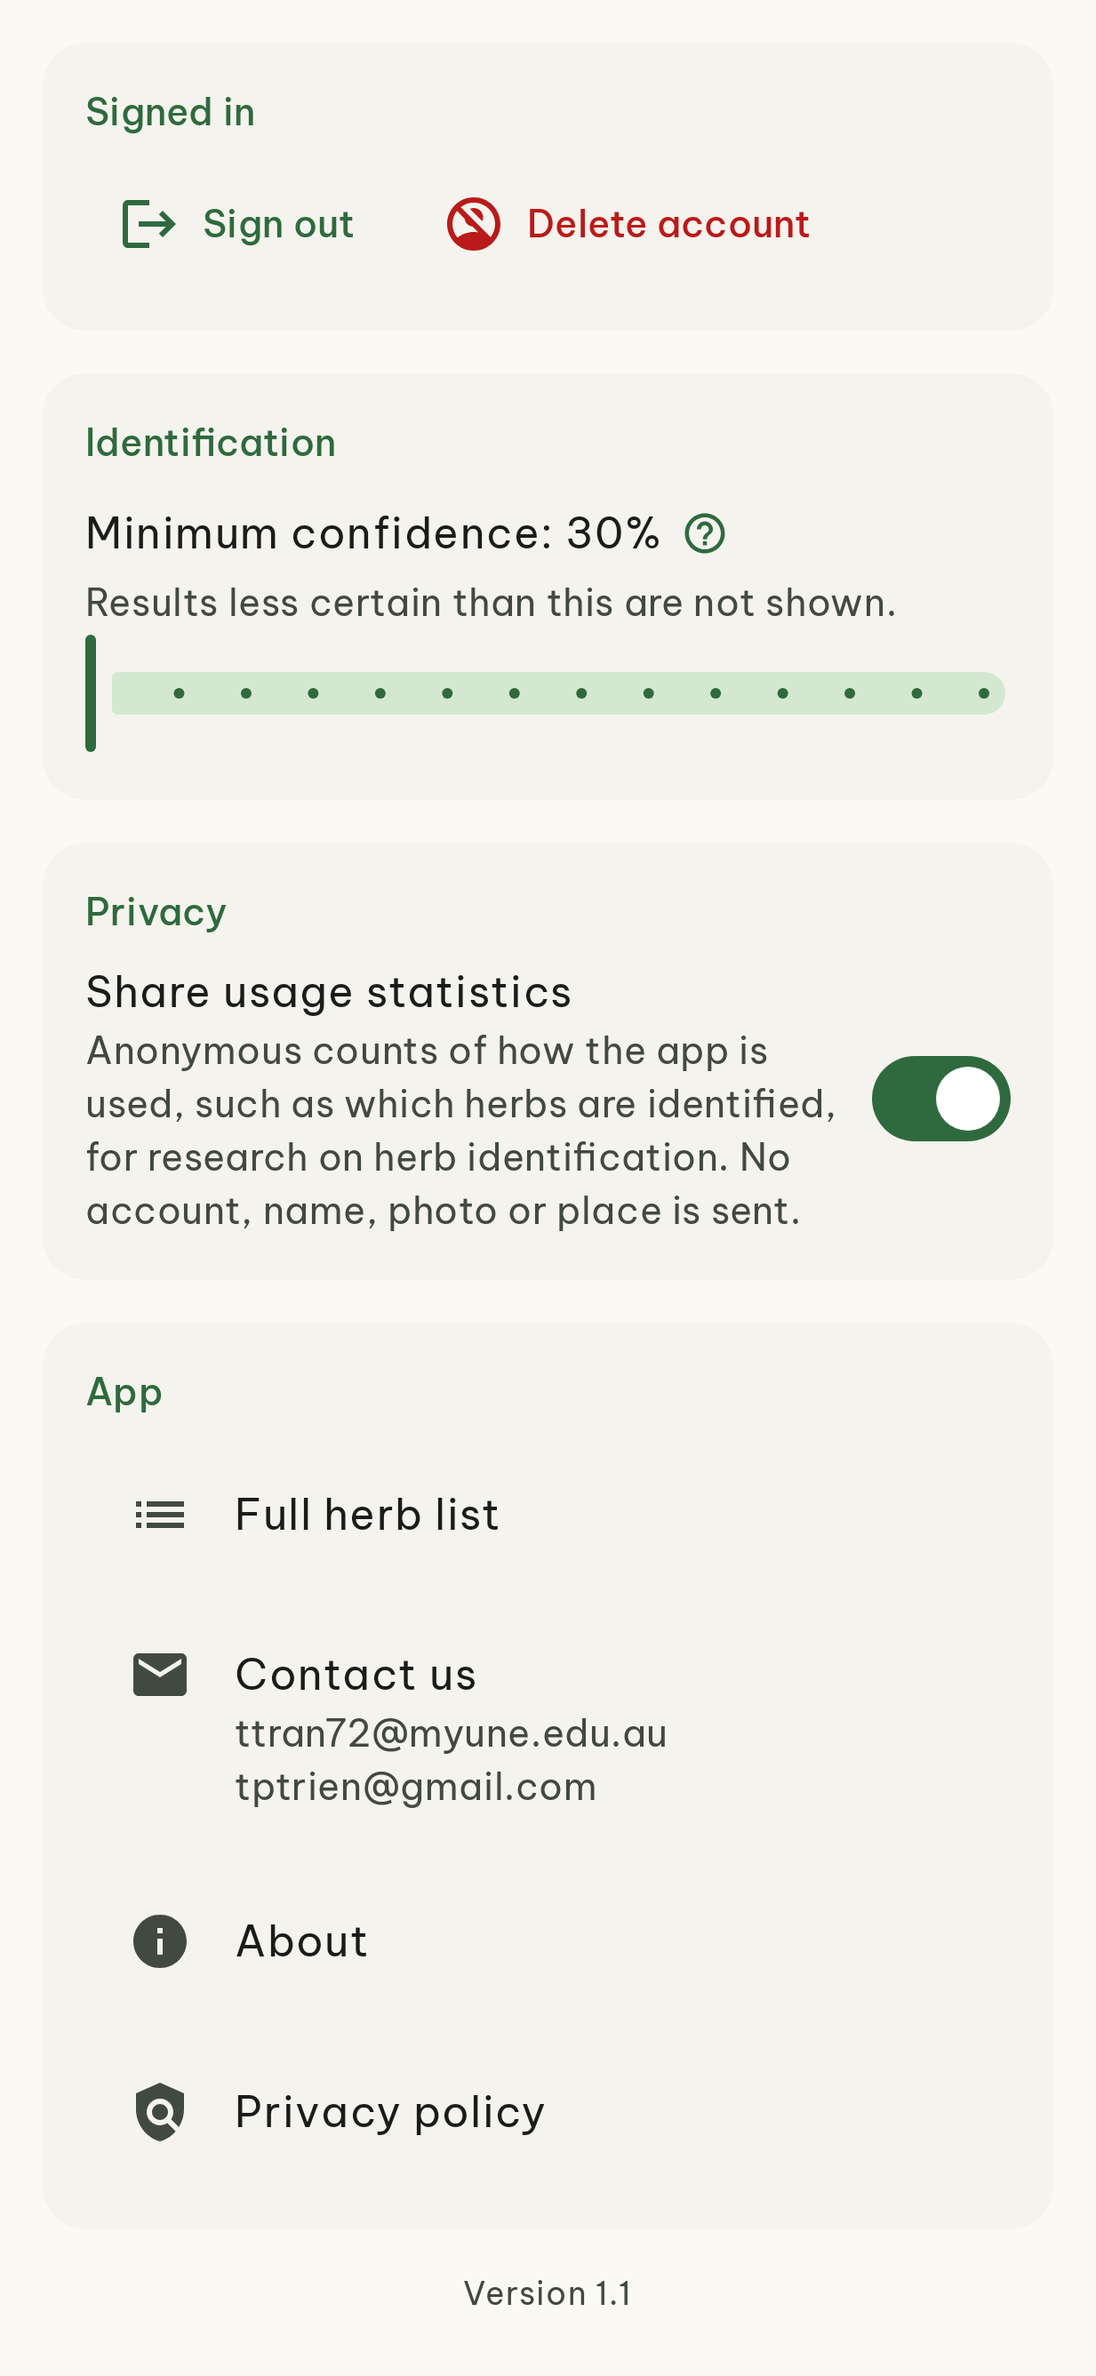
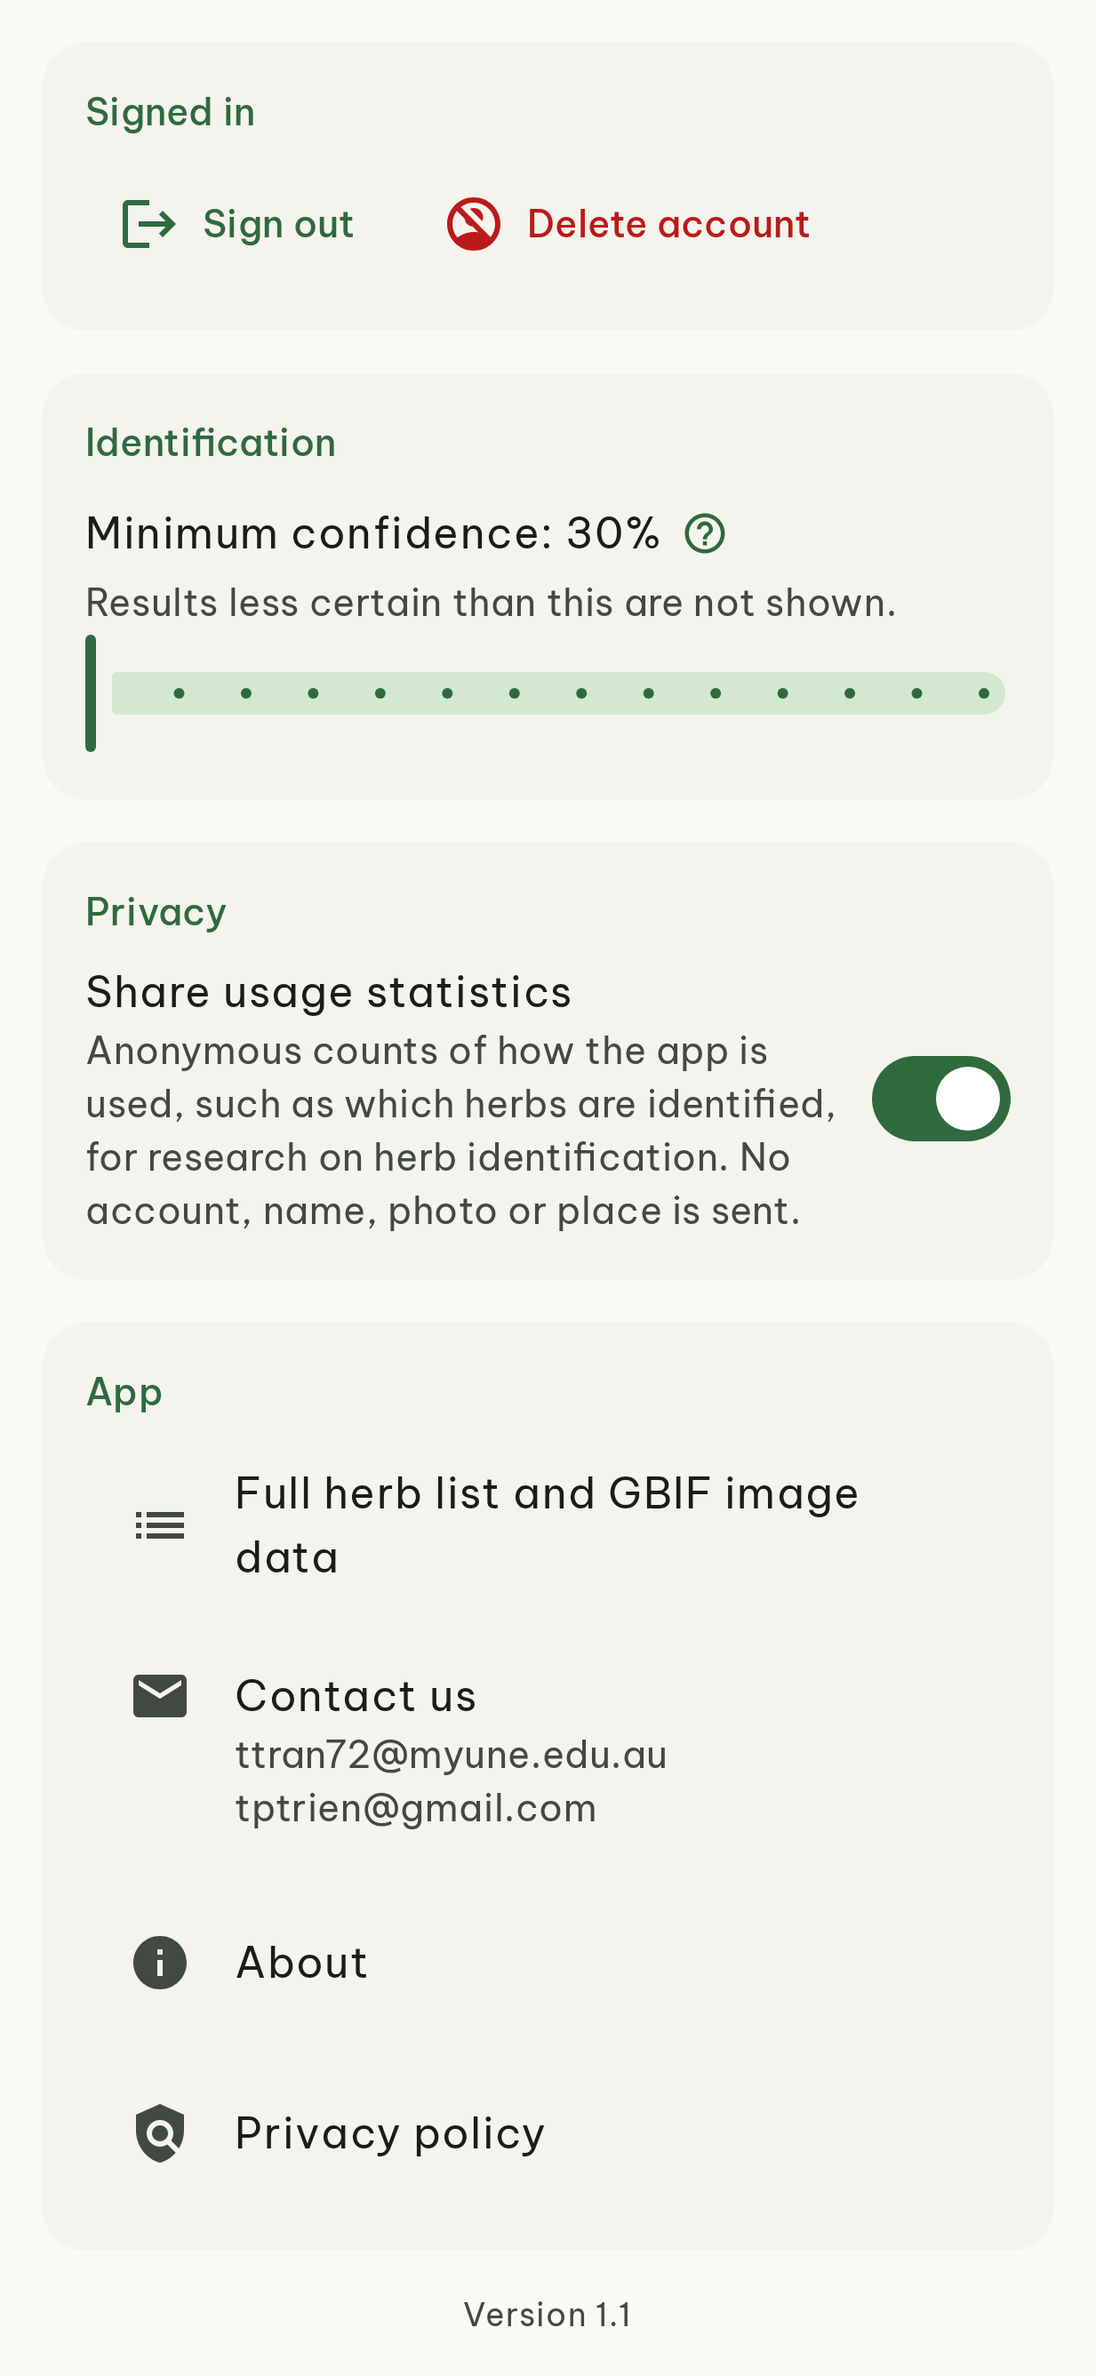
Profile: contact emails and the dataset link come from Remote Config (contact_emails, dataset_url), with the current values built in; the herb list link now opens the Kaggle dataset, labelled "Full herb list and GBIF image data", and opening it is counted (open_dataset)

diff --git a/feature/profile/src/commonMain/kotlin/com/uri/lee/dl/feature/profile/ProfileViewModel.kt b/feature/profile/src/commonMain/kotlin/com/uri/lee/dl/feature/profile/ProfileViewModel.kt
@@ -7,8 +7,10 @@ import com.uri.lee.dl.core.ui.MviViewModel
 import com.uri.lee.dl.domain.analytics.Analytics
 import com.uri.lee.dl.domain.analytics.AnalyticsEvent
 import com.uri.lee.dl.domain.analytics.NoAnalytics
+import com.uri.lee.dl.domain.model.AppLinks
 import com.uri.lee.dl.domain.model.Citation
 import com.uri.lee.dl.domain.model.ScanSettings
+import com.uri.lee.dl.domain.repository.AppLinksRepository
 import com.uri.lee.dl.domain.repository.AuthRepository
 import com.uri.lee.dl.domain.repository.CitationRepository
 import com.uri.lee.dl.domain.repository.SettingsRepository
@@ -24,6 +26,9 @@ sealed interface ProfileAction {
 
     /** The user copied the citation at [index] in How to cite (for usage statistics). */
     data class CitationCopied(val index: Int) : ProfileAction
+
+    /** The user opened the dataset link (for usage statistics). */
+    data object DatasetOpened : ProfileAction
 }
 
 data class ProfileState(
@@ -34,6 +39,8 @@ data class ProfileState(
     val usageStatistics: Boolean = true,
     /** Works to cite the app by; the section is hidden while empty. */
     val citations: List<Citation> = emptyList(),
+    /** The built-in links until the published ones arrive. */
+    val links: AppLinks = AppLinks(),
 )
 
 /** Account and settings. */
@@ -41,6 +48,7 @@ class ProfileViewModel(
     private val auth: AuthRepository,
     private val settings: SettingsRepository,
     private val citations: CitationRepository,
+    private val links: AppLinksRepository,
     app: AppInfo,
     private val analytics: Analytics = NoAnalytics,
 ) : MviViewModel<ProfileState, ProfileAction>(ProfileState(versionName = app.versionName)) {
@@ -59,6 +67,16 @@ class ProfileViewModel(
                 log.w(e) { "Citations unavailable" }
             }
         }
+        viewModelScope.launch {
+            try {
+                val published = links.links()
+                setState { copy(links = published) }
+            } catch (e: CancellationException) {
+                throw e
+            } catch (e: Exception) {
+                log.w(e) { "Links unavailable; keeping the built-in ones" }
+            }
+        }
     }
 
     override fun onAction(action: ProfileAction) {
@@ -69,6 +87,7 @@ class ProfileViewModel(
             is ProfileAction.CitationCopied -> currentState.citations.getOrNull(action.index)?.let {
                 analytics.log(AnalyticsEvent.CitationCopied(action.index + 1, it.url))
             }
+            ProfileAction.DatasetOpened -> analytics.log(AnalyticsEvent.DatasetOpened)
         }
     }
 

diff --git a/core/data/src/commonMain/kotlin/com/uri/lee/dl/data/firebase/RemoteConfigAppLinksRepository.kt b/core/data/src/commonMain/kotlin/com/uri/lee/dl/data/firebase/RemoteConfigAppLinksRepository.kt
@@ -1,0 +1,46 @@
+package com.uri.lee.dl.data.firebase
+
+import co.touchlab.kermit.Logger
+import com.uri.lee.dl.core.firebase.RemoteConfigClient
+import com.uri.lee.dl.domain.model.AppLinks
+import com.uri.lee.dl.domain.repository.AppLinksRepository
+import kotlinx.coroutines.CancellationException
+
+/**
+ * The Remote Config keys `contact_emails` (addresses separated by commas, the first one first in the email)
+ * and `dataset_url` (a web link). Unset, or not valid, means the built-in [AppLinks] value.
+ */
+internal class RemoteConfigAppLinksRepository(private val remoteConfig: RemoteConfigClient) : AppLinksRepository {
+
+    override suspend fun links(): AppLinks {
+        try {
+            remoteConfig.fetchAndActivate()
+        } catch (e: CancellationException) {
+            throw e
+        } catch (e: Exception) {
+            log.w(e) { "Remote Config fetch failed; using cached values" }
+        }
+        return parse(remoteConfig.string(CONTACT_EMAILS), remoteConfig.string(DATASET_URL))
+    }
+
+    companion object {
+        const val CONTACT_EMAILS = "contact_emails"
+        const val DATASET_URL = "dataset_url"
+        private val log = Logger.withTag("AppLinks")
+        private val email = Regex("[^\\s@,;]+@[^\\s@,;]+\\.[^\\s@,;]+")
+
+        fun parse(contactEmails: String, datasetUrl: String): AppLinks {
+            val emails = contactEmails.split(',').map { it.trim() }.filter { it.isNotEmpty() }
+            // All or nothing: one bad address would make the mail app reject the rest
+            val validEmails = emails.takeIf { it.isNotEmpty() && it.all(email::matches) }
+            if (emails.isNotEmpty() && validEmails == null) log.w { "$CONTACT_EMAILS has an address that isn't valid: $contactEmails" }
+            // Only web links: the app opens it as it is
+            val url = datasetUrl.trim().takeIf { it.startsWith("https://") || it.startsWith("http://") }
+            if (datasetUrl.isNotBlank() && url == null) log.w { "$DATASET_URL is not a web link: $datasetUrl" }
+            return AppLinks(
+                contactEmails = validEmails ?: AppLinks.DEFAULT_CONTACT_EMAILS,
+                datasetUrl = url ?: AppLinks.DEFAULT_DATASET_URL,
+            )
+        }
+    }
+}

diff --git a/feature/profile/src/commonMain/kotlin/com/uri/lee/dl/feature/profile/ProfileScreen.kt b/feature/profile/src/commonMain/kotlin/com/uri/lee/dl/feature/profile/ProfileScreen.kt
@@ -131,12 +131,15 @@ fun ProfileScreen(state: ProfileState, onAction: (ProfileAction) -> Unit, action
 
             SectionCard(stringResource(Res.string.profile_app)) {
                 actions.onOpenLanguageSettings?.let { LinkRow(Icons.Filled.Language, stringResource(Res.string.profile_language), onClick = it) }
-                LinkRow(Icons.AutoMirrored.Filled.List, stringResource(Res.string.profile_full_list)) { uriHandler.openUri(HERB_LIST_URL) }
+                LinkRow(Icons.AutoMirrored.Filled.List, stringResource(Res.string.profile_full_list)) {
+                    onAction(ProfileAction.DatasetOpened)
+                    uriHandler.openUri(state.links.datasetUrl)
+                }
                 actions.onShareApp?.let { LinkRow(Icons.Filled.Share, stringResource(Res.string.profile_share), onClick = it) }
-                // The addresses too: without a mail app set up, a mailto link does nothing. One email to both,
-                // the university's first
-                LinkRow(Icons.Filled.Email, stringResource(Res.string.profile_contact), supporting = CONTACT_EMAILS.joinToString("\n")) {
-                    uriHandler.openUri("mailto:" + CONTACT_EMAILS.joinToString(","))
+                // The addresses too: without a mail app set up, a mailto link does nothing. One email to all of them
+                val emails = state.links.contactEmails
+                LinkRow(Icons.Filled.Email, stringResource(Res.string.profile_contact), supporting = emails.joinToString("\n")) {
+                    uriHandler.openUri("mailto:" + emails.joinToString(","))
                 }
                 // In Vietnamese for an app shown in Vietnamese; the legal pages stay English only
                 val about = if (Locale.current.language == "vi") LegalLinks.ABOUT_VI else LegalLinks.ABOUT
@@ -274,6 +277,3 @@ private fun LinkRow(icon: ImageVector, label: String, supporting: String? = null
         modifier = Modifier.clickable(onClick = onClick).semantics { role = Role.Button },
     )
 }
-
-private const val HERB_LIST_URL = "https://docs.google.com/spreadsheets/d/16IpEYlpkd7NW3XHXUvhdhJf8LySuhVRLooA7c1SAzOs/edit?usp=sharing"
-private val CONTACT_EMAILS = listOf("ttran72@myune.edu.au", "tptrien@gmail.com")

diff --git a/feature/profile/src/commonTest/kotlin/com/uri/lee/dl/feature/profile/ProfileViewModelTest.kt b/feature/profile/src/commonTest/kotlin/com/uri/lee/dl/feature/profile/ProfileViewModelTest.kt
@@ -2,8 +2,10 @@ package com.uri.lee.dl.feature.profile
 
 import com.uri.lee.dl.domain.analytics.Analytics
 import com.uri.lee.dl.domain.analytics.AnalyticsEvent
+import com.uri.lee.dl.domain.model.AppLinks
 import com.uri.lee.dl.domain.model.Citation
 import com.uri.lee.dl.testing.MainDispatcherTest
+import com.uri.lee.dl.testing.fakes.FakeAppLinksRepository
 import com.uri.lee.dl.testing.fakes.FakeAuthRepository
 import com.uri.lee.dl.testing.fakes.FakeCitationRepository
 import com.uri.lee.dl.testing.fakes.FakeSettingsRepository
@@ -16,12 +18,13 @@ class ProfileViewModelTest : MainDispatcherTest() {
     private val auth = FakeAuthRepository()
     private val settings = FakeSettingsRepository()
     private val citations = FakeCitationRepository()
+    private val links = FakeAppLinksRepository()
     private val events = mutableListOf<AnalyticsEvent>()
     private val analytics = object : Analytics {
         override fun log(event: AnalyticsEvent) { events += event }
         override fun screen(name: String) = Unit
     }
-    private fun viewModel() = ProfileViewModel(auth, settings, citations, testAppInfo, analytics)
+    private fun viewModel() = ProfileViewModel(auth, settings, citations, links, testAppInfo, analytics)
 
     @Test
     fun `copying a citation is counted with its link`() {
@@ -64,5 +67,26 @@ class ProfileViewModelTest : MainDispatcherTest() {
         citations.fail = true
 
         assertEquals(emptyList(), viewModel().state.value.citations)
+    }
+
+    @Test
+    fun `published links replace the built-in ones`() {
+        links.published = AppLinks(listOf("new@example.org"), "https://example.org/data")
+
+        assertEquals(links.published, viewModel().state.value.links)
+    }
+
+    @Test
+    fun `built-in links when they can't be fetched`() {
+        links.fail = true
+
+        assertEquals(AppLinks(), viewModel().state.value.links)
+    }
+
+    @Test
+    fun `opening the dataset is counted`() {
+        viewModel().onAction(ProfileAction.DatasetOpened)
+
+        assertEquals("open_dataset", events.single().name)
     }
 }

diff --git a/core/data/src/commonMain/kotlin/com/uri/lee/dl/data/DataModule.kt b/core/data/src/commonMain/kotlin/com/uri/lee/dl/data/DataModule.kt
@@ -6,6 +6,7 @@ import com.uri.lee.dl.data.catalog.SpeciesCsvReader
 import com.uri.lee.dl.data.content.ReleaseSource
 import com.uri.lee.dl.data.content.RemoteConfigReleaseSource
 import com.uri.lee.dl.data.firebase.DefaultAppStatusRepository
+import com.uri.lee.dl.data.firebase.RemoteConfigAppLinksRepository
 import com.uri.lee.dl.data.firebase.RemoteConfigCitationRepository
 import com.uri.lee.dl.data.sharing.DefaultCommunityModelRepository
 import com.uri.lee.dl.domain.sharing.CommunityModelRepository
@@ -24,6 +25,7 @@ import com.uri.lee.dl.data.upload.R2PhotoHost
 import com.uri.lee.dl.domain.media.ImageHost
 import com.uri.lee.dl.domain.repository.AppStatusRepository
 import com.uri.lee.dl.domain.repository.AuthRepository
+import com.uri.lee.dl.domain.repository.AppLinksRepository
 import com.uri.lee.dl.domain.repository.CitationRepository
 import com.uri.lee.dl.domain.repository.ContributionRepository
 import com.uri.lee.dl.domain.repository.PhotoRepository
@@ -61,6 +63,7 @@ val dataModule: Module = module {
         DefaultAppStatusRepository(get(), versionCode = app.versionCode, platform = app.platform)
     }
     single<CitationRepository> { RemoteConfigCitationRepository(get()) }
+    single<AppLinksRepository> { RemoteConfigAppLinksRepository(get()) }
     single<CommunityModelRepository> {
         DefaultCommunityModelRepository(get(), get(), get(), get(named(PreferenceStore.SETTINGS)), workerUrl = get<AppInfo>().photoUploadUrl)
     }

diff --git a/core/testing/src/commonMain/kotlin/com/uri/lee/dl/testing/fakes/FakeRepositories.kt b/core/testing/src/commonMain/kotlin/com/uri/lee/dl/testing/fakes/FakeRepositories.kt
@@ -1,11 +1,13 @@
 package com.uri.lee.dl.testing.fakes
 
+import com.uri.lee.dl.domain.model.AppLinks
 import com.uri.lee.dl.domain.model.Citation
 import com.uri.lee.dl.domain.model.SpeciesPhoto
 import com.uri.lee.dl.domain.moderation.HiddenContent
 import com.uri.lee.dl.domain.moderation.ModerationRepository
 import com.uri.lee.dl.domain.moderation.ReportReason
 import com.uri.lee.dl.domain.repository.AuthRepository
+import com.uri.lee.dl.domain.repository.AppLinksRepository
 import com.uri.lee.dl.domain.repository.CitationRepository
 import com.uri.lee.dl.domain.repository.ContributionRepository
 import com.uri.lee.dl.domain.repository.PhotoRepository
@@ -120,4 +122,9 @@ class FakeModerationRepository : ModerationRepository {
 class FakeCitationRepository(var published: List<Citation> = emptyList()) : CitationRepository {
     var fail = false
     override suspend fun citations(): List<Citation> = if (fail) error("fetch failed") else published
+}
+
+class FakeAppLinksRepository(var published: AppLinks = AppLinks()) : AppLinksRepository {
+    var fail = false
+    override suspend fun links(): AppLinks = if (fail) error("fetch failed") else published
 }

diff --git a/core/data/src/androidHostTest/kotlin/com/uri/lee/dl/data/firebase/AppLinksParsingTest.kt b/core/data/src/androidHostTest/kotlin/com/uri/lee/dl/data/firebase/AppLinksParsingTest.kt
@@ -1,0 +1,32 @@
+package com.uri.lee.dl.data.firebase
+
+import com.uri.lee.dl.data.firebase.RemoteConfigAppLinksRepository.Companion.parse
+import com.uri.lee.dl.domain.model.AppLinks
+import org.junit.Assert.assertEquals
+import org.junit.Test
+
+class AppLinksParsingTest {
+
+    @Test
+    fun `unset means the built-in links`() {
+        assertEquals(AppLinks(), parse("", ""))
+    }
+
+    @Test
+    fun `published links are read in order`() {
+        assertEquals(
+            AppLinks(listOf("a@uni.edu.au", "b@example.com"), "https://www.kaggle.com/datasets/x/y"),
+            parse(" a@uni.edu.au, b@example.com ,", " https://www.kaggle.com/datasets/x/y "),
+        )
+    }
+
+    @Test
+    fun `an address that isn't valid keeps the built-in ones`() {
+        assertEquals(AppLinks.DEFAULT_CONTACT_EMAILS, parse("a@uni.edu.au, not an email", "").contactEmails)
+    }
+
+    @Test
+    fun `a dataset link that isn't a web link keeps the built-in one`() {
+        assertEquals(AppLinks.DEFAULT_DATASET_URL, parse("", "javascript:alert(1)").datasetUrl)
+    }
+}

diff --git a/core/domain/src/commonMain/kotlin/com/uri/lee/dl/domain/model/AppLinks.kt b/core/domain/src/commonMain/kotlin/com/uri/lee/dl/domain/model/AppLinks.kt
@@ -1,0 +1,14 @@
+package com.uri.lee.dl.domain.model
+
+/** Where Profile sends people: the contact addresses and the dataset. Published remotely, so they change without a release. */
+data class AppLinks(
+    /** One email goes to all of them; the university's first. */
+    val contactEmails: List<String> = DEFAULT_CONTACT_EMAILS,
+    /** The species list with the image data, on Kaggle (which counts the downloads). */
+    val datasetUrl: String = DEFAULT_DATASET_URL,
+) {
+    companion object {
+        val DEFAULT_CONTACT_EMAILS = listOf("ttran72@myune.edu.au", "tptrien@gmail.com")
+        const val DEFAULT_DATASET_URL = "https://www.kaggle.com/datasets/trientran/viet-medi-species-2026"
+    }
+}

diff --git a/core/domain/src/commonMain/kotlin/com/uri/lee/dl/domain/analytics/Analytics.kt b/core/domain/src/commonMain/kotlin/com/uri/lee/dl/domain/analytics/Analytics.kt
@@ -95,6 +95,9 @@ sealed class AnalyticsEvent(val name: String, val parameters: Map<String, Any>) 
         },
     )
 
+    /** The dataset link in Profile was opened (Kaggle counts the downloads, this counts the visits from the app). */
+    data object DatasetOpened : AnalyticsEvent("open_dataset", emptyMap())
+
     /**
      * Research mode, to count who runs studies with the app: the run's size only, never its results
      * (those stay in the researcher's own files).

diff --git a/core/domain/src/commonMain/kotlin/com/uri/lee/dl/domain/repository/AppLinksRepository.kt b/core/domain/src/commonMain/kotlin/com/uri/lee/dl/domain/repository/AppLinksRepository.kt
@@ -1,0 +1,9 @@
+package com.uri.lee.dl.domain.repository
+
+import com.uri.lee.dl.domain.model.AppLinks
+
+/** The contact and dataset links; published remotely, so they change without a release. */
+interface AppLinksRepository {
+    /** The published links, or the built-in ones for any that aren't published or aren't valid. */
+    suspend fun links(): AppLinks
+}

diff --git a/docs/content-publishing.md b/docs/content-publishing.md
@@ -126,6 +126,20 @@ on their next launch, since the old files are still in the bucket.
 | Model labels not all in the catalog | Keeps the verified file and activates it once a catalog covers them |
 | Anything fails | Keeps the current files; the working copy is replaced only after every check passes |
 
+## Contact and dataset links
+
+Profile → Contact us and Full herb list and GBIF image data use two Remote Config string parameters,
+so they can change without a release. Leave either unset and the app uses its built-in value.
+
+| Parameter | Value | Built in |
+|---|---|---|
+| `contact_emails` | Addresses separated by commas; one email goes to all, the first listed first | `ttran72@myune.edu.au,tptrien@gmail.com` |
+| `dataset_url` | A web link (`https://…`) | `https://www.kaggle.com/datasets/trientran/viet-medi-species-2026` |
+
+A value that isn't valid (any address without `@` and a domain, or a link that isn't a web link) is
+ignored and the built-in value is used; the app logs a warning. Opening the dataset is counted as the
+`open_dataset` event, and Kaggle counts the downloads.
+
 ## How to cite
 
 Profile → How to cite lists the works to cite when the app is used in research. They come from the

diff --git a/docs/manual-test-script.md b/docs/manual-test-script.md
@@ -134,7 +134,7 @@ Upload photos you took yourself.
 
 1. Profile shows sign in (signed out) or sign out (signed in); sign out, then sign in again.
 2. Move the minimum confidence slider. Kill and relaunch: it's kept, and Identify uses it.
-4. Full herb list, Share, Contact, About and Privacy policy open the right page or app.
+4. Full herb list and GBIF image data (the Kaggle dataset), Share, Contact, About and Privacy policy open the right page or app. With `contact_emails` or `dataset_url` published (see `docs/content-publishing.md`), Contact and the dataset row use the published values.
 5. With `how_to_cite` published (see `docs/content-publishing.md`), How to cite lists each work; Copy puts the reference on the clipboard and Open opens its link. With the key empty, the section is gone.
 
 ## 12. Offline
